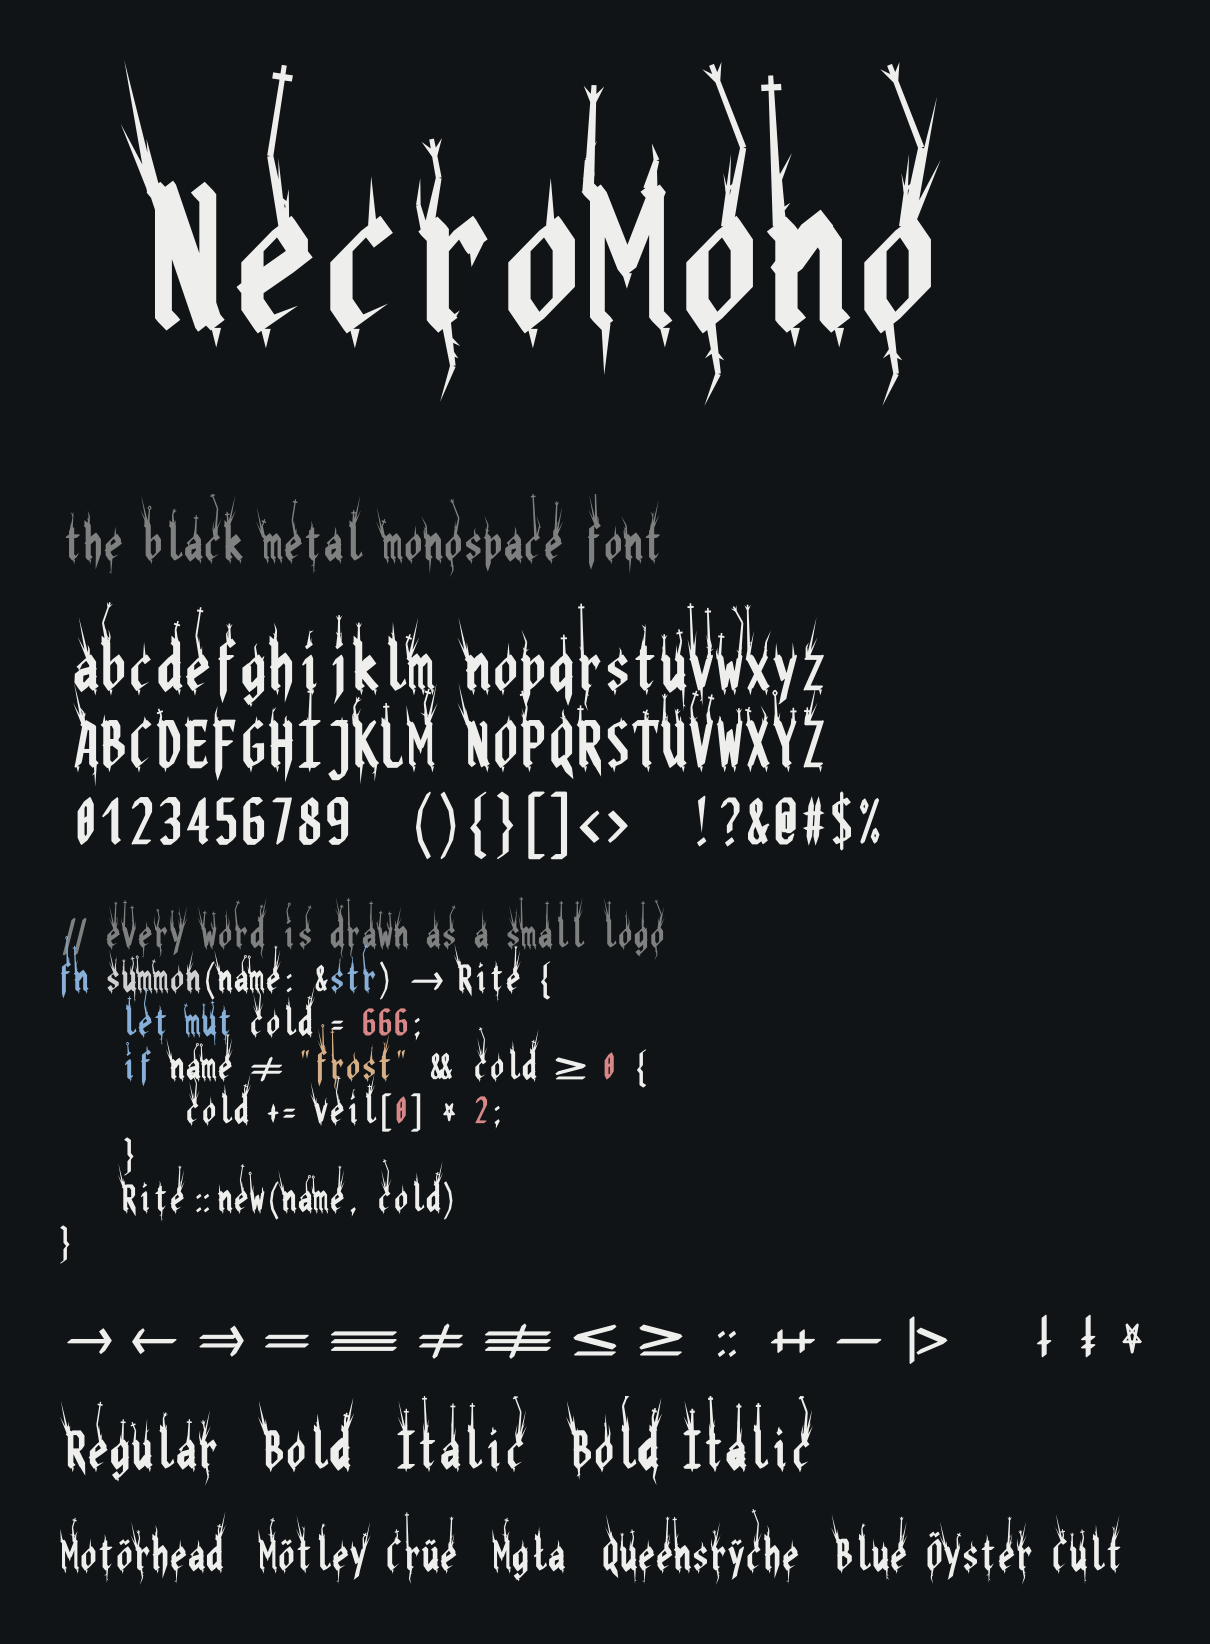
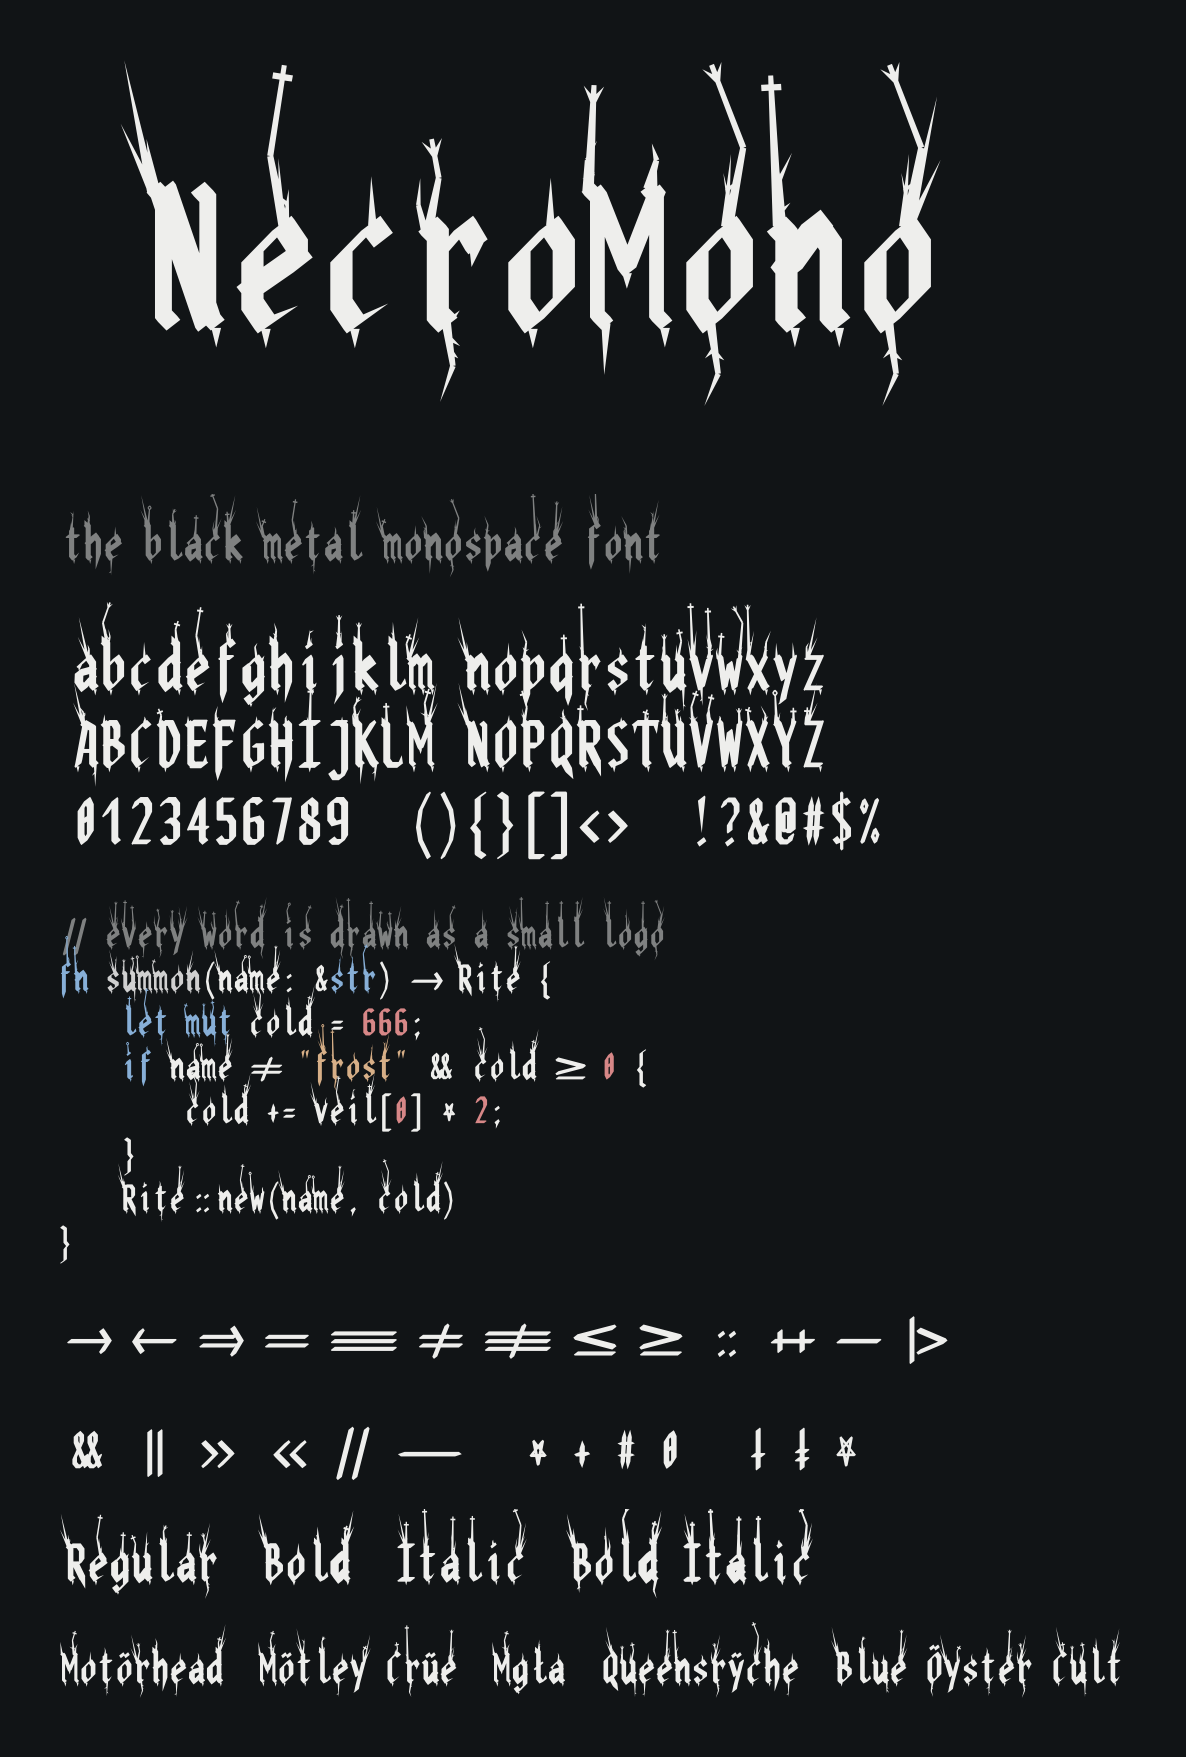
Show the newer ligatures and sigils on the specimen

diff --git a/necromono/specimen.py b/necromono/specimen.py
@@ -28,7 +28,8 @@ BLOCKS = [
         f"    Rite::new(name, cold)\n"
         f"}}",
     ),
-    (24, "-> <- => == === != !== <= >= :: ++ -- |>    † ‡ ⛧"),
+    (24, "-> <- => == === != !== <= >= :: ++ -- |>"),
+    (24, "&& || >> << // ---   * + # 0   † ‡ ⛧"),
     (24, f"Regular  {B}Bold{R}  {I}Italic{R}  {B}{I}Bold Italic{R}"),
     (20, "Motörhead  Mötley Crüe  Mgła  Queensrÿche  Blue Öyster Cult"),
 ]
